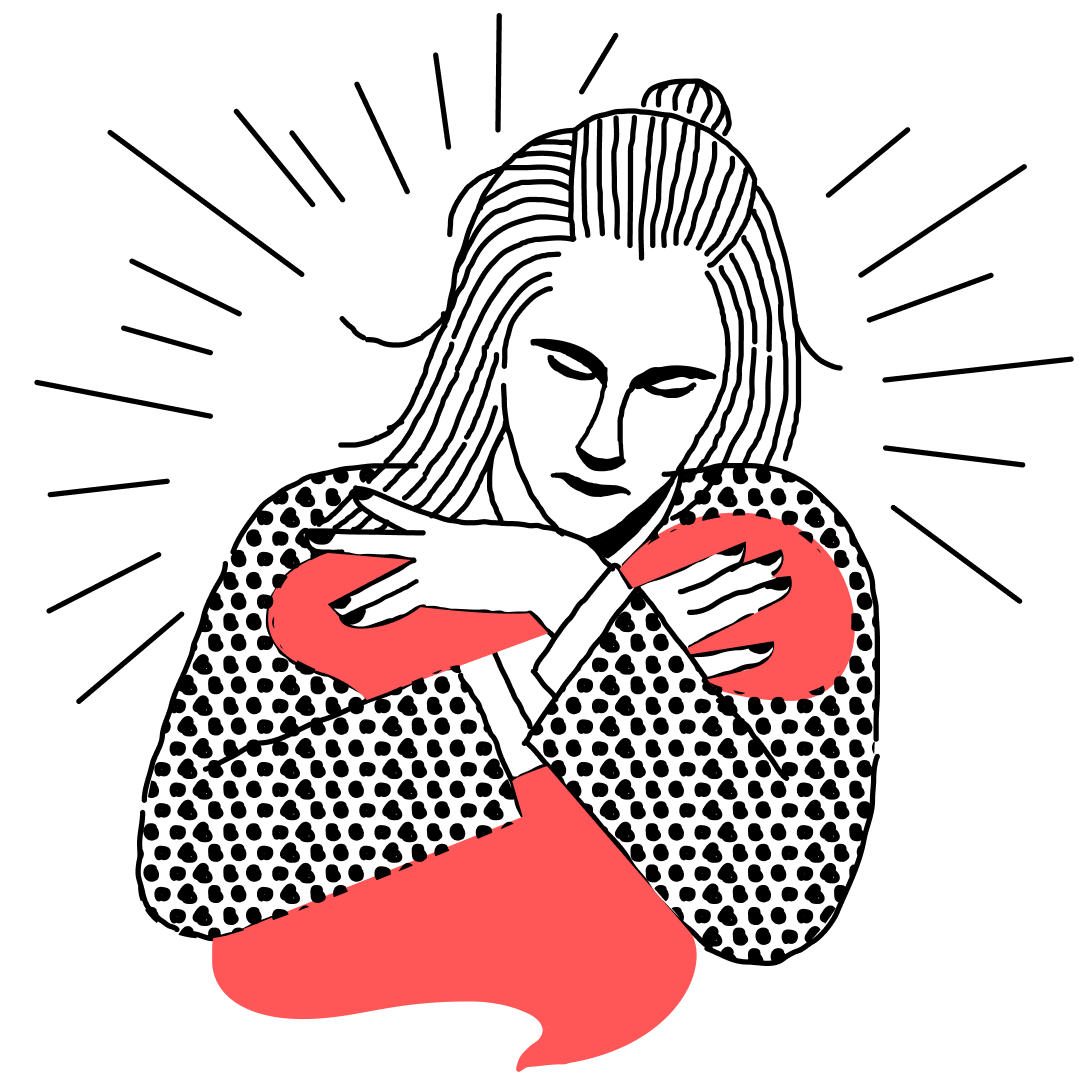
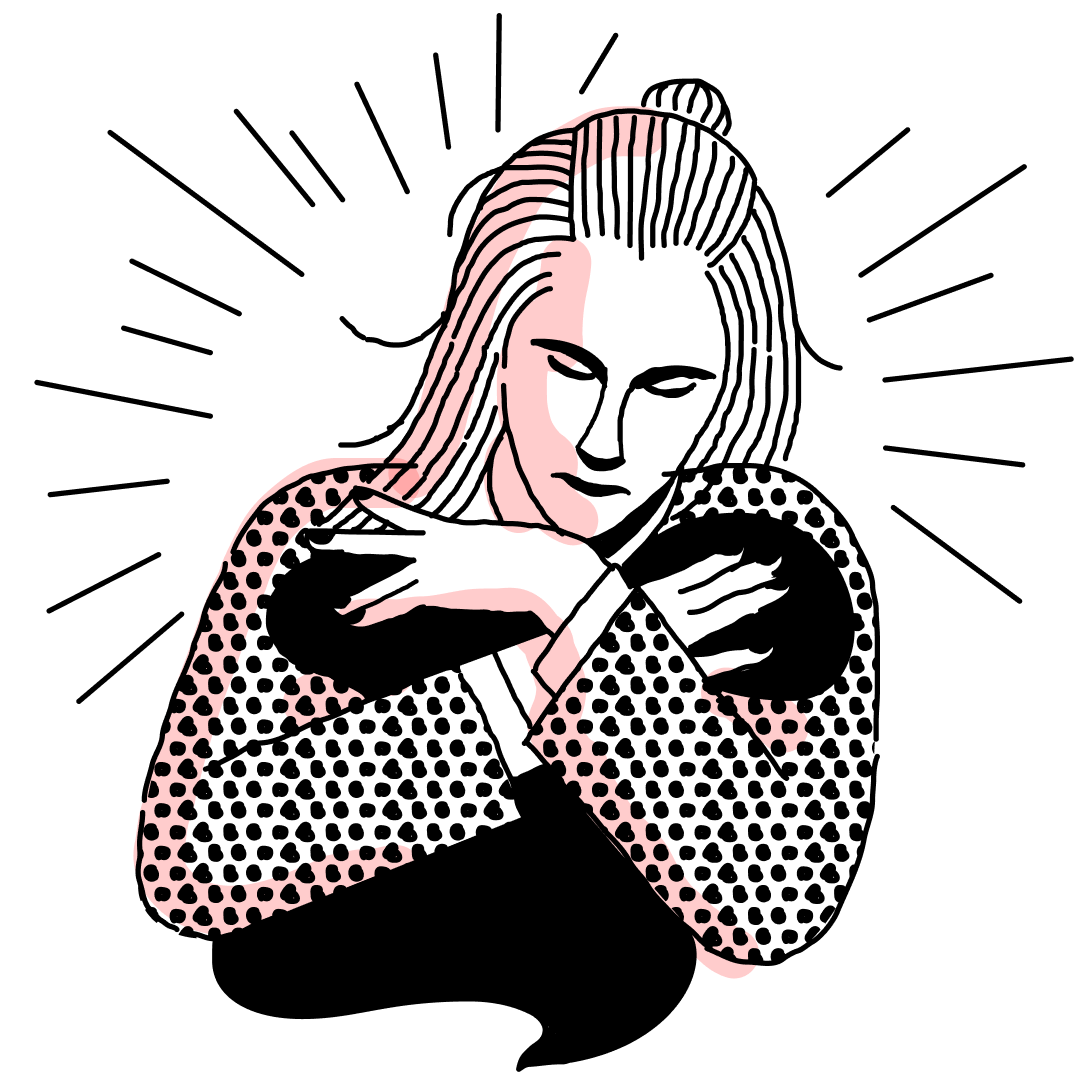
design tweaks

Changed region(s): [[0.1222, 0.0917, 0.7028, 1.0], [0.5806, 0.4583, 0.7944, 0.7028]]

diff --git a/src/components/Hero.tsx b/src/components/Hero.tsx
@@ -2,16 +2,16 @@ import {BackgroundImage} from '@/components/BackgroundImage'
 import {Button} from '@/components/Button'
 import {Container} from '@/components/Container'
 import Image from 'next/image'
-import JoAnneToon from '@/images/joanne-sketch-2.png'
-// import JoAnneToon from '@/images/illustration.png'
+// import JoAnneToon from '@/images/joanne-sketch-2.png'
+import JoAnneToon from '@/images/illustration.png'
 
 export function Hero() {
   return (
     <div className="relative py-20 sm:pb-24 sm:pt-36">
       <BackgroundImage className="-bottom-14 -top-36" />
       <Container className="relative">
-        <div className="max-w-2xl mx-auto lg:max-w-4xl lg:px-12">
-          <Image src={JoAnneToon} alt="Jo-Anne Hart" width={400} height={300} className="" />
+        <div className="flex flex-col items-center max-w-2xl mx-auto sm:items-start lg:max-w-4xl lg:px-12">
+          <Image src={JoAnneToon} alt="Jo-Anne Hart" className="w-[65vw] sm:w-[370px]" />
           <div className="mt-6 text-2xl tracking-tight text-blackish space-y-6 font-display">
             <p>
               Experience Jo-Anne Hart’s solo performance, <span className="italic">Friendship: A Love Story</span> —

diff --git a/src/components/Footer.tsx b/src/components/Footer.tsx
@@ -4,7 +4,7 @@ import {Logo} from '@/components/Logo'
 export function Footer() {
   return (
     <footer className="flex-none py-16">
-      <Container className="flex flex-col items-center justify-between md:flex-row">
+      <Container className="flex flex-col items-center justify-between md:flex-row md:items-end">
         <Logo className="w-auto h-12 text-blackish" />
         <p className="mt-6 text-base text-blackish md:mt-0">
           Copyright &copy; {new Date().getFullYear()} HartStories. All

diff --git a/src/components/Logo.tsx b/src/components/Logo.tsx
@@ -6,7 +6,7 @@ export function Logo(props: React.ComponentPropsWithoutRef<'svg'>) {
     <Image
       src={HartStoriesLogo}
       alt="Hart Stories"
-      className="w-60"
+      className="w-[13rem]"
     />
   )
 }
